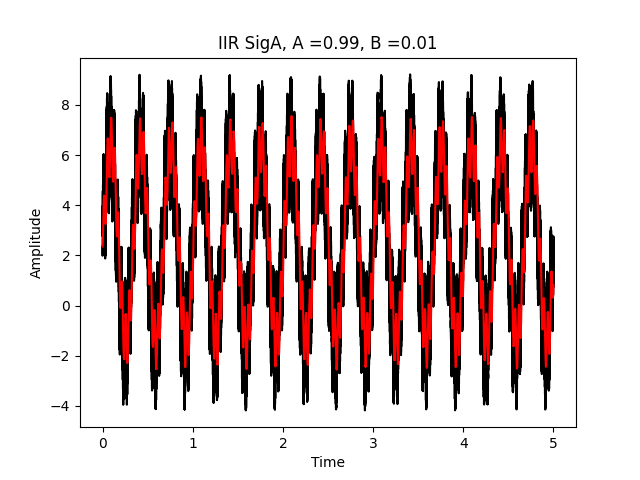
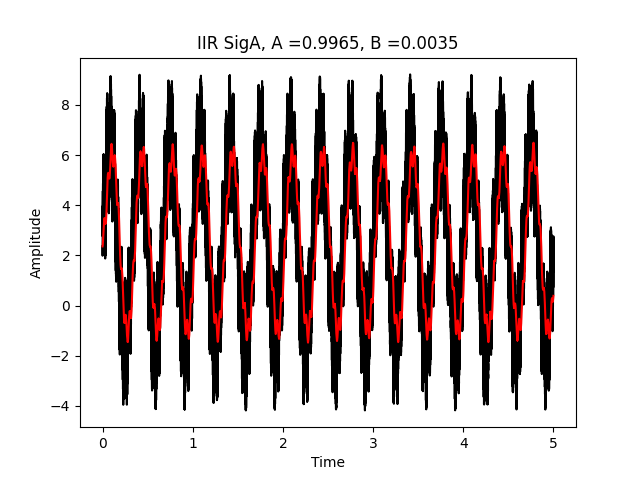
params tuned except FIRs

Changed region(s): [[0.1562, 0.25, 0.875, 0.7812], [0.3125, 0.0625, 0.5625, 0.125], [0.6562, 0.0625, 0.7188, 0.125]]

diff --git a/HW9/python_fft.py b/HW9/python_fft.py
@@ -2,8 +2,8 @@ import matplotlib.pyplot as plt
 import numpy as np
 import csv
 
-names = ['A', 'B', 'C', 'D']
-for name in names:
+
+def filters(name, n_avg, A, B, w):
     t = []
     meas = []
 
@@ -37,24 +37,21 @@ for name in names:
     plt.savefig('plots/Sig' + name + '_fft.png')
 
     ### 5 Moving Average ###
-    n = 50
     movavg = []
     tavg = []
-    for i in range(0, len(meas)-n):
-        movavg.append(np.mean(meas[i:i+n]))
-        tavg.append(np.mean(t[i:i+n]))
+    for i in range(0, len(meas)-n_avg):
+        movavg.append(np.mean(meas[i:i+n_avg]))
+        tavg.append(np.mean(t[i:i+n_avg]))
 
     fig2, ax1 = plt.subplots()
     ax1.plot(t,meas,'k')
     ax1.plot(tavg, movavg, 'r')
     ax1.set_xlabel('Time')
     ax1.set_ylabel('Amplitude')
-    ax1.set_title('Mov Avg Sig' + name + ' (n=' + str(n) + ')')
+    ax1.set_title('Mov Avg Sig' + name + ' (n=' + str(n_avg) + ')')
     plt.savefig('plots/Sig' + name + '_movavg.png')
 
     ### 6 IIR ###
-    A = 0.99
-    B = 0.01
 
     iir = [meas[0]]
     for i in range(1, len(meas)):
@@ -69,6 +66,47 @@ for name in names:
     plt.savefig('plots/Sig' + name + '_iir.png')
 
     ### 7 FIR ###
+    fir = []
+    l = len(w)
+    w = np.array(w)
+    meas = np.array(meas)
+    for i in range(len(meas)-l):
+        fir.append(np.dot(w.T,meas[i:i+l])/l) #TODO
+    t_fir = t[l:]
+
+    fig4, ax1 = plt.subplots()
+    ax1.plot(t,meas,'k')
+    ax1.plot(t_fir, fir, 'r')
+    ax1.set_xlabel('Time')
+    ax1.set_ylabel('Amplitude')
+    ax1.set_title('FIR Sig' + name + 'n = ' + str(l)) #TODO
+    plt.savefig('plots/Sig' + name + '_fir.png')
+
+
+name = 'A'
+n_avg = 400 # mov avg
+A = 0.9965 # IIR
+B = 0.0035 # IIR
+w = [1,1,1,1,1,1,1,1,1,1]
+filters(name, n_avg, A, B, w)
+
+name = 'B'
+n_avg = 100 # mov avg
+A = 0.985 # IIR
+B = 0.015 # IIR
+filters(name, n_avg, A, B, w)
+
+name = 'C'
+n_avg = 1 # mov avg
+A = 0 # IIR
+B = 1 # IIR
+filters(name, n_avg, A, B, w)
+
+name = 'D'
+n_avg = 45 # mov avg
+A = 0.94 # IIR
+B = 0.06 # IIR
+filters(name, n_avg, A, B, w)
 
 
 
